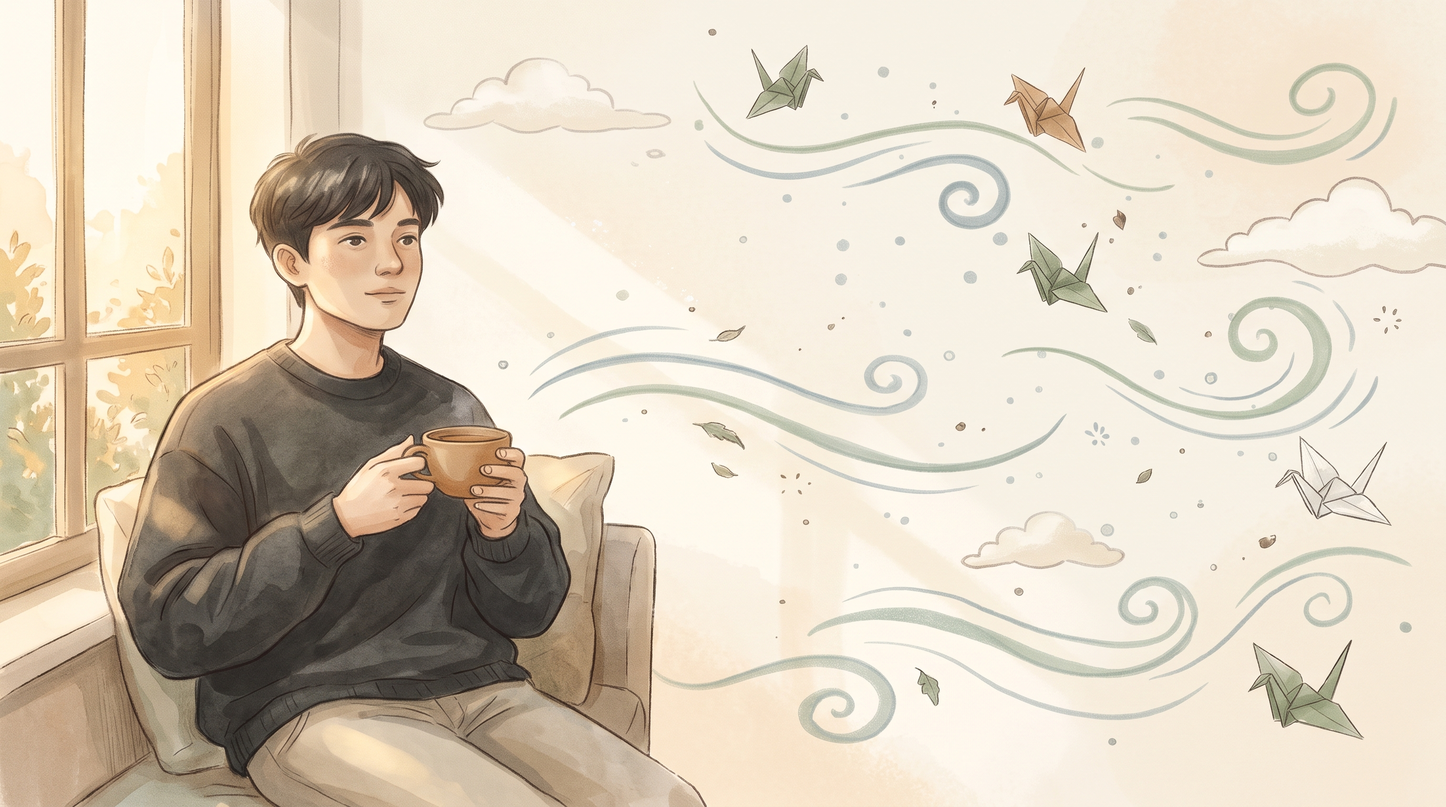
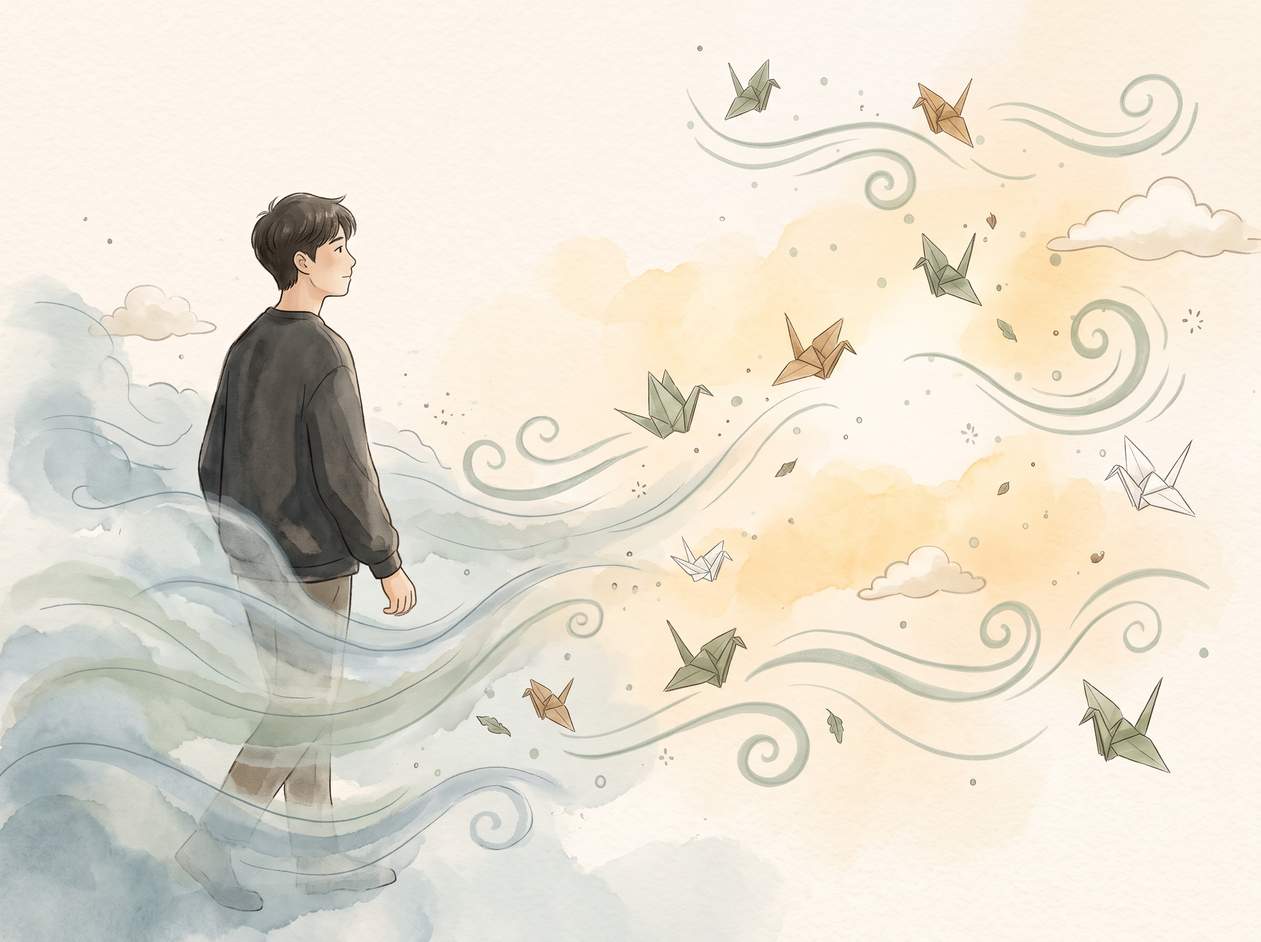
add

diff --git a/style.css b/style.css
@@ -701,3 +701,30 @@ main > section {
   background: #F9EFEA;
   color: var(--charcoal);
 }
+/* ========================================== */
+/* HERO TITLE ENLARGEMENT (KEEPING LAYOUT)    */
+/* ========================================== */
+.hero-grid {
+  grid-template-columns: 1.25fr 0.75fr !important; /* 俾多啲橫向空間個大標題 */
+  gap: 32px !important;
+}
+
+.hero-copy h1 {
+  font-size: clamp(3.6rem, 6.4vw, 5.8rem) !important; /* 明顯放大，氣勢十足 */
+  line-height: 1.02 !important;
+  letter-spacing: -0.045em !important;
+}
+
+.hero-illustration {
+  max-width: 410px !important; /* 微微收細右邊插畫少少，確保兩邊比例平衡唔撞字 */
+}
+
+@media (max-width: 760px) {
+  .hero-grid {
+    grid-template-columns: 1fr !important;
+  }
+  .hero-copy h1 {
+    font-size: clamp(2.8rem, 11vw, 3.8rem) !important;
+    white-space: normal !important;
+  }
+}
